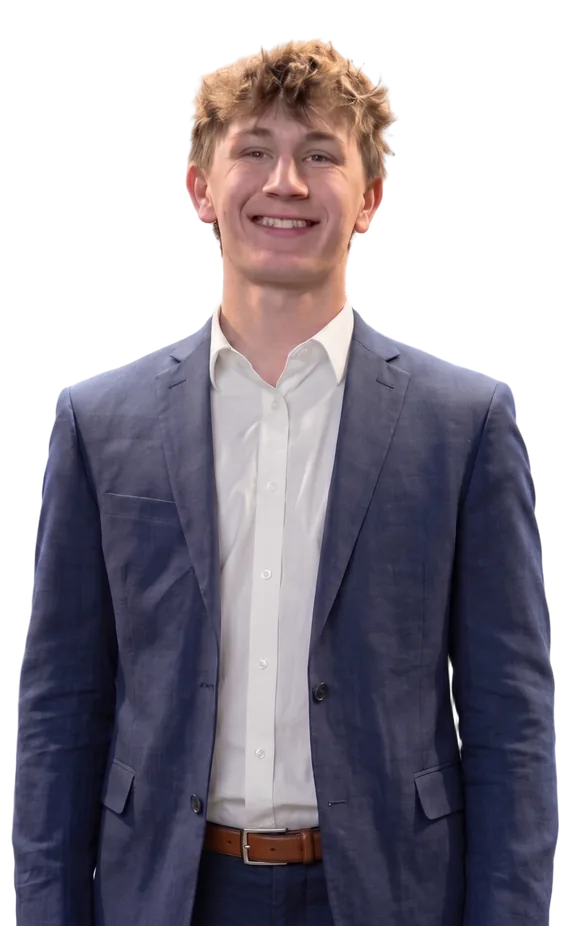
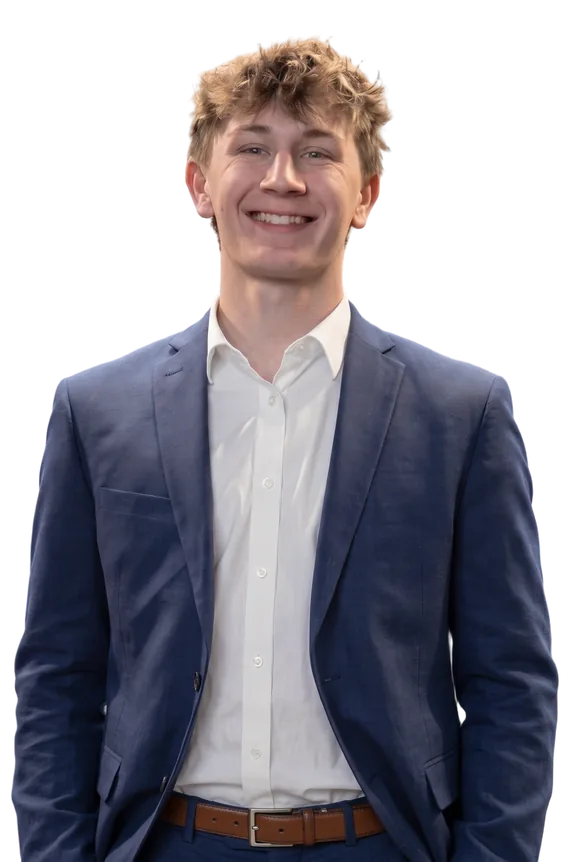
New rooftop hero photo and headline
- Hero cutout from Cole's second rooftop photo (hands in pockets), 1000x1512 with a 570w -sm
- Headline is now "does the work, then automates it." and breaks only between the two phrases on desktop
- LinkedIn preview image regenerated from the new hero

diff --git a/index.html b/index.html
@@ -19,7 +19,7 @@
 <meta property="og:image:type" content="image/jpeg">
 <meta property="og:image:width" content="1200">
 <meta property="og:image:height" content="627">
-<meta property="og:image:alt" content="Cole Stepanik in a navy suit beside the headline: Cole Stepanik builds AI for finance.">
+<meta property="og:image:alt" content="Cole Stepanik in a navy suit, hands in his pockets, beside the headline: Cole Stepanik does the work, then automates it.">
 <meta property="profile:first_name" content="Cole">
 <meta property="profile:last_name" content="Stepanik">
 <meta name="twitter:card" content="summary_large_image">
@@ -334,16 +334,16 @@
       <div class="hx-grain"></div>
     </div>
 
-    <!-- Rendered width: min(88vw, 480px) under 900px, min(54.2vh, 677px) above (see .hx-figure in section.css) -->
+    <!-- Rendered width: min(88vw, 480px) under 900px, min(58.2vh, 728px) above (see .hx-figure in section.css) -->
     <picture class="hx-figure">
       <source media="(max-width: 899px)" srcset="img/hero/cole-rooftop-sm.webp 570w" sizes="min(88vw, 480px)">
-      <img src="img/hero/cole-rooftop.webp" srcset="img/hero/cole-rooftop-sm.webp 570w, img/hero/cole-rooftop.webp 1000w" sizes="min(54.2vh, 677px)" width="1000" height="1625" alt="Cole Stepanik smiling in a navy suit, white shirt and brown belt" fetchpriority="high" decoding="async">
+      <img src="img/hero/cole-rooftop.webp" srcset="img/hero/cole-rooftop-sm.webp 570w, img/hero/cole-rooftop.webp 1000w" sizes="min(58.2vh, 728px)" width="1000" height="1512" alt="Cole Stepanik smiling in a navy suit and white shirt, hands in his pockets" fetchpriority="high" decoding="async">
     </picture>
 
     <div class="hx-inner">
       <h1 class="hx-title" id="hx-title">
         <span class="hx-l1">Cole Stepanik</span>
-        <span class="hx-l2">builds AI for finance.</span>
+        <span class="hx-l2"><span class="hx-nb">does the work,</span> <span class="hx-nb">then automates it.</span></span>
       </h1>
       <p class="hx-lede">Finance and Accounting senior at UMass Lowell. I cold call business owners for a search fund, so I built the workspace I wanted: Ownerhound.</p>
       <div class="hx-cta">

diff --git a/sections/hero/section.html b/sections/hero/section.html
@@ -6,16 +6,16 @@
     <div class="hx-grain"></div>
   </div>
 
-  <!-- Rendered width: min(88vw, 480px) under 900px, min(54.2vh, 677px) above (see .hx-figure in section.css) -->
+  <!-- Rendered width: min(88vw, 480px) under 900px, min(58.2vh, 728px) above (see .hx-figure in section.css) -->
   <picture class="hx-figure">
     <source media="(max-width: 899px)" srcset="img/hero/cole-rooftop-sm.webp 570w" sizes="min(88vw, 480px)">
-    <img src="img/hero/cole-rooftop.webp" srcset="img/hero/cole-rooftop-sm.webp 570w, img/hero/cole-rooftop.webp 1000w" sizes="min(54.2vh, 677px)" width="1000" height="1625" alt="Cole Stepanik smiling in a navy suit, white shirt and brown belt" fetchpriority="high" decoding="async">
+    <img src="img/hero/cole-rooftop.webp" srcset="img/hero/cole-rooftop-sm.webp 570w, img/hero/cole-rooftop.webp 1000w" sizes="min(58.2vh, 728px)" width="1000" height="1512" alt="Cole Stepanik smiling in a navy suit and white shirt, hands in his pockets" fetchpriority="high" decoding="async">
   </picture>
 
   <div class="hx-inner">
     <h1 class="hx-title" id="hx-title">
       <span class="hx-l1">Cole Stepanik</span>
-      <span class="hx-l2">builds AI for finance.</span>
+      <span class="hx-l2"><span class="hx-nb">does the work,</span> <span class="hx-nb">then automates it.</span></span>
     </h1>
     <p class="hx-lede">Finance and Accounting senior at UMass Lowell. I cold call business owners for a search fund, so I built the workspace I wanted: Ownerhound.</p>
     <div class="hx-cta">

diff --git a/sections/hero/section.css b/sections/hero/section.css
@@ -58,11 +58,11 @@
 }
 
 /* The cutout. Sized from the viewport height so the img sizes attribute in section.html can match it exactly:
-   desktop height min(88vh, 1100px), so width min(54.2vh, 677px). Its lower part fades out to show the glow. */
+   desktop height min(88vh, 1100px), so width min(58.2vh, 728px). Its lower part fades out to show the glow. */
 .hx-figure {
   position: absolute; z-index: 0; bottom: 0; pointer-events: none;
   right: max(0px, calc(50% - 640px));
-  width: min(54.2vh, 677px); aspect-ratio: 1000 / 1625;
+  width: min(58.2vh, 728px); aspect-ratio: 1000 / 1512;
   -webkit-mask: linear-gradient(to bottom, #000 0%, #000 58%, rgb(0 0 0 / .55) 76%, transparent 94%);
           mask: linear-gradient(to bottom, #000 0%, #000 58%, rgb(0 0 0 / .55) 76%, transparent 94%);
 }
@@ -80,9 +80,11 @@
 }
 .hx-l2 {
   display: block; margin-top: .02em;
-  font: italic 400 clamp(52px, 7.6vw, 118px)/.98 var(--serif, Georgia, serif);
+  font: italic 400 clamp(52px, 7.6vw, 100px)/.98 var(--serif, Georgia, serif);
   letter-spacing: -.012em;
 }
+/* Desktop: break only between the two phrases ("does the work," / "then automates it."); 100px max keeps the longer one inside the text column */
+@media (min-width: 900px) { .hx-nb { white-space: nowrap; } }
 .hx-lede {
   max-width: min(42ch, 56%); margin: clamp(18px, 2.6vh, 26px) 0 0;
   font: 400 clamp(16px, 1.3vw, 18.5px)/1.6 var(--sans, system-ui, sans-serif);

diff --git a/sections/hero/demo.html b/sections/hero/demo.html
@@ -51,7 +51,7 @@
   <div class="hx-inner">
     <h1 class="hx-title" id="hx-title">
       <span class="hx-l1">Cole Stepanik</span>
-      <span class="hx-l2">builds AI for finance.</span>
+      <span class="hx-l2">does the work, then automates it.</span>
     </h1>
     <p class="hx-lede">Finance and Accounting senior at UMass Lowell. I cold call business owners for a search fund, so I built the workspace I wanted: Ownerhound.</p>
     <div class="hx-cta">

diff --git a/sections/hero/NOTES.md b/sections/hero/NOTES.md
@@ -46,7 +46,7 @@ Checked: 1440 x 900, 1280 x 720, 1024 x 768 (text right edge 572, figure left ed
 Tuning knobs (set on `.hx`): `--hx-d` wheel diameter, `--hx-peak` how high the glow rises, `--hx-turn` seconds per turn, `--hx-start` starting angle. To change his size, edit `.hx-figure` width and update both `sizes` attributes to match.
 
 ## Headline
-Default (built): "Cole Stepanik" in thin DM Sans (weight 250), "builds AI for finance." in big italic Instrument Serif.
+Default (built; Cole changed it on Oct 28, 2026 from "builds AI for finance."): "Cole Stepanik" in thin DM Sans (weight 250), "does the work, then automates it." in big italic Instrument Serif.
 Alternates, same pairing:
 1. "Cole Stepanik" / "turns finance work into software."
 2. "I'm Cole." / "I build the tools I need."
